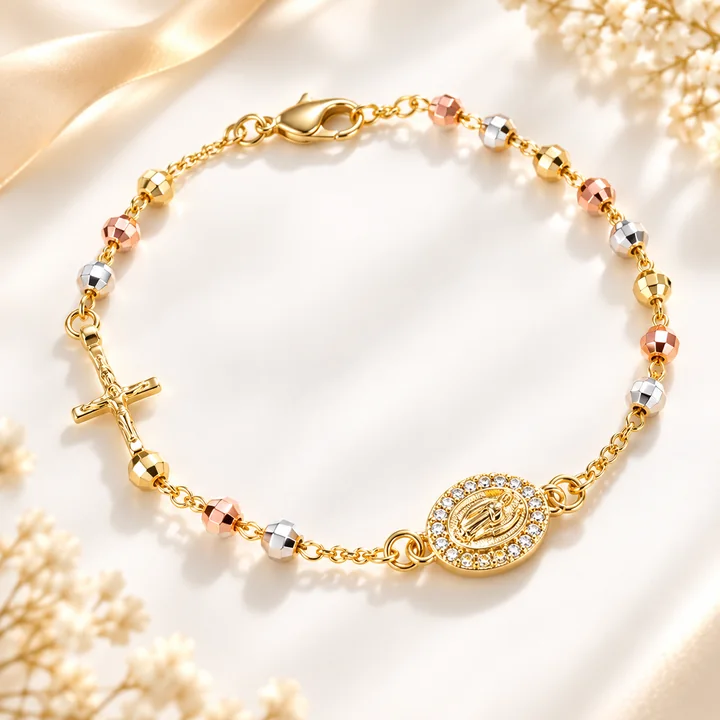
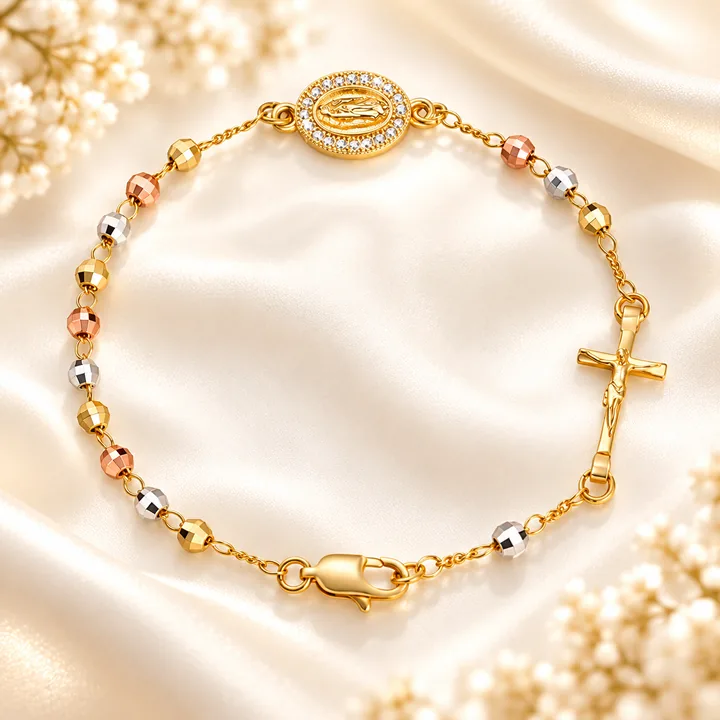
GARELON: sustituir solo las imágenes 1 y 4 por las nuevas del propietario (D45)
- Imagen 1 (infografía «Detalles de la pulsera»): «NUEVA IMAGEN 1.png» byte a byte la de main d697947;
  familia nueva producto-infografia-v4-<ancho>.webp (lossless, tools/garelon_infografia.py); v3 retirada.
- Imagen 4 (pulsera completa): «NUEVA IMAGEN 4.png» (main d697947) sustituye a «imagen 4.png»;
  mismos producto-completa-480/720/1080.webp (LANCZOS + WebP calidad 82).
- Tema: solo esos WebP y el nombre de la familia en snippets/garelon-image.liquid.
- Pruebas: fase AB; S, I, X sin versión fija; alcance de AA fijado a f0a502b.

Claude-Session: https://claude.ai/code/session_01XJUTQLhDdd2vbuf5oismMC

diff --git a/tests/render-harness/suite/tests-AB.js b/tests/render-harness/suite/tests-AB.js
@@ -1,0 +1,93 @@
+// SOLO TEST · Fase AB: sustitución exclusiva de dos imágenes (propietario, 2026-10-14, D45).
+// Imagen 1 (infografía «Detalles de la pulsera») → «NUEVA IMAGEN 1.png» nueva (main d697947), familia producto-infografia-v4.
+// Imagen 4 (pulsera completa, clave «completa») → «NUEVA IMAGEN 4.png» (main d697947), mismos producto-completa-<ancho>.webp.
+// Mismos sitios, mismo orden, mismos tamaños, mismos textos: nada más cambia en el tema.
+const T = require('./tests.js');
+const { ok, get, reset, openPage, THEME } = T;
+const fs = require('fs');
+const { execSync, execFileSync, spawnSync } = require('child_process');
+const P = '/products/pulsera-rosario-virgen-maria';
+const BASE = '8be0746'; // HEAD antes de la ronda AB
+const OWNER_UPLOAD = 'd697947'; // subida del propietario a main (2026-10-14): «NUEVA IMAGEN 1.png» y «NUEVA IMAGEN 4.png»
+const REPO = fs.existsSync(THEME + '/.git');
+const INF = T.assetBase('infografia');
+const gallery = (html) => (html.match(/<div class="g-gallery"[\s\S]*?<\/ul>/) || [''])[0];
+const buy = (html) => (html.match(/<section\s+id="comprar"[\s\S]*?<\/product-info>/) || [''])[0];
+const slides = (g) => [...g.matchAll(/producto-(\w+)(?:-v\d+)?-\d+\.webp/g)].map(m => m[1]).filter((k, i, a) => a.indexOf(k) === i);
+// Diferencia media (0-255) de cada WebP de «completa» con una fuente reducida (LANCZOS) a su ancho.
+const COMPARE = `
+import sys, json
+from PIL import Image, ImageChops, ImageStat
+out = {}
+for name, src in (('nueva', sys.argv[2]), ('antigua', sys.argv[3])):
+    s = Image.open(src).convert('RGB')
+    for w in (480, 720, 1080):
+        a = Image.open(f'{sys.argv[1]}/assets/producto-completa-{w}.webp')
+        r = s.resize((w, w), Image.LANCZOS)
+        out[f'{name}-{w}'] = {'size': list(a.size), 'mean': sum(ImageStat.Stat(ImageChops.difference(a.convert('RGB'), r)).mean) / 3}
+print(json.dumps(out))`;
+
+module.exports = async function (browser) {
+  await reset();
+  // 1 · Fuentes: byte a byte las del propietario; la antigua «imagen 4.png» retirada; el resto de fuentes intacto
+  if (REPO) {
+    const blob = (rev, f) => spawnSync('git', ['-C', THEME, 'cat-file', 'blob', `${rev}:${f}`], { maxBuffer: 64 * 1024 * 1024 }).stdout;
+    const same = (f) => fs.existsSync(`${THEME}/${f}`) && fs.readFileSync(`${THEME}/${f}`).equals(blob(OWNER_UPLOAD, f));
+    ok('AB1 «NUEVA IMAGEN 1.png» y «NUEVA IMAGEN 4.png» son byte a byte las subidas por el propietario a main (d697947)', same('NUEVA IMAGEN 1.png') && same('NUEVA IMAGEN 4.png'));
+    ok('AB2 la imagen 4 antigua («imagen 4.png») ya no está; «NUEVA IMAGEN 3.png» e «imagen 2.png» sin cambios',
+      !fs.existsSync(`${THEME}/imagen 4.png`) && ['NUEVA IMAGEN 3.png', 'imagen 2.png'].every(f => fs.readFileSync(`${THEME}/${f}`).equals(blob(BASE, f))));
+  }
+
+  // 2 · Assets: «completa» sale de la imagen 4 nueva (no de la antigua); la infografía, de la imagen 1 nueva (familia v4)
+  if (REPO) {
+    const old4 = `${require('os').tmpdir()}/garelon-ab-imagen4.png`;
+    fs.writeFileSync(old4, execFileSync('git', ['-C', THEME, 'show', `${BASE}:imagen 4.png`], { maxBuffer: 64 * 1024 * 1024 }));
+    const c = JSON.parse(execFileSync('python3', ['-c', COMPARE, THEME, `${THEME}/NUEVA IMAGEN 4.png`, old4]).toString());
+    fs.unlinkSync(old4);
+    ok('AB3 producto-completa-{480,720,1080}.webp: cuadradas a su ancho y reducción de «NUEVA IMAGEN 4.png» (media ≤ 3/255), no de la antigua (> 10/255)',
+      [480, 720, 1080].every(w => c[`nueva-${w}`].size.join() === `${w},${w}` && c[`nueva-${w}`].mean <= 3 && c[`antigua-${w}`].mean > 10), c);
+  }
+  ok('AB4 infografía: familia producto-infografia-v4 (480/720/1080/1254) y nada de la v3', INF === 'producto-infografia-v4' &&
+    JSON.stringify(fs.readdirSync(`${THEME}/assets`).filter(f => /infografia/.test(f)).sort()) === JSON.stringify([480, 720, 1080, 1254].map(w => `${INF}-${w}.webp`).sort()));
+  if (REPO) {
+    const chk = spawnSync('python3', [`${THEME}/tools/garelon_infografia.py`, '--check'], { encoding: 'utf8' });
+    ok('AB5 tools/garelon_infografia.py --check: la v4 es píxel a píxel la imagen 1 nueva (lossless, sin recorte ni ampliación)', chk.status === 0 && /0\.000, máxima 0\/255/.test(chk.stdout), chk.stdout.trim().split('\n').slice(-3));
+  }
+
+  // 3 · Mismos sitios y mismo orden que antes
+  const home = (await get('/')).html; const pdp = (await get(P)).html;
+  const det = (h) => (h.match(/<section[^>]*id="detalles"[\s\S]*?<\/section>/) || [''])[0];
+  ok('AB6 home: galería de compra completa → infografía → principal → oración; la imagen 4 nueva es la 1.ª (eager) y la 1 nueva está en la galería y en «Detalles»',
+    JSON.stringify(slides(gallery(buy(home)))) === JSON.stringify(['completa', 'infografia', 'principal', 'oracion']) && /<img[^>]*producto-completa-[^>]*loading="eager"|loading="eager"[^>]*producto-completa-/.test(gallery(buy(home))) && det(home).includes(`${INF}-1254.webp`), slides(gallery(buy(home))));
+  ok('AB7 ficha: galería completa → principal → infografía → oración; la imagen 4 nueva es la 1.ª (eager) y «Detalles» usa la imagen 1 nueva',
+    JSON.stringify(slides(gallery(pdp))) === JSON.stringify(['completa', 'principal', 'infografia', 'oracion']) && /<img[^>]*producto-completa-[^>]*loading="eager"|loading="eager"[^>]*producto-completa-/.test(gallery(pdp)) && det(pdp).includes(`${INF}-1254.webp`), slides(gallery(pdp)));
+  ok('AB8 ninguna página sirve la familia v3 de la infografía', !/producto-infografia-v3-/.test(home + pdp + (await get('/cart')).html));
+
+  // 4 · Navegador: móvil y escritorio, todas las imágenes cargan, sin peticiones fallidas
+  for (const [u, vp] of [['/', { width: 390, height: 844 }], ['/', { width: 1440, height: 900 }], [P, { width: 390, height: 844 }], [P, { width: 1440, height: 900 }]]) {
+    const { page, errs } = await openPage(browser, u, vp);
+    const res = await page.evaluate(async () => {
+      const imgs = [...document.querySelectorAll('img[src*="producto-completa"], img[src*="producto-infografia"]')];
+      for (const i of imgs) { i.loading = 'eager'; i.scrollIntoView({ block: 'center' }); await i.decode().catch(() => {}); }
+      return { n: imgs.length, broken: imgs.filter(i => !(i.complete && i.naturalWidth > 0)).map(i => i.currentSrc), sw: document.documentElement.scrollWidth, cw: document.documentElement.clientWidth };
+    });
+    ok(`AB9 ${u === '/' ? 'home' : 'ficha'} ${vp.width}px: imágenes 1 y 4 cargadas (ninguna rota), sin scroll horizontal ni peticiones fallidas`,
+      res.n >= 3 && res.broken.length === 0 && res.sw <= res.cw && errs.length === 0, { ...res, errs });
+    await page.close();
+  }
+
+  // 5 · Alcance: solo los WebP de las dos imágenes y el nombre de la familia de la infografía
+  if (REPO) {
+    const changed = execSync(`git -C ${THEME} diff --name-only ${BASE} -- assets config layout locales sections snippets templates`).toString().trim().split('\n').filter(Boolean)
+      .concat(execSync(`git -C ${THEME} ls-files --others --exclude-standard -- assets config layout locales sections snippets templates`).toString().trim().split('\n').filter(Boolean));
+    ok('AB10 alcance: solo producto-completa-*.webp, producto-infografia-v3/v4-*.webp y snippets/garelon-image.liquid (sin CSS, plantillas, secciones, textos ni ajustes)',
+      changed.length === 12 && changed.every(f => /^(assets\/producto-completa-(480|720|1080)\.webp|assets\/producto-infografia-v[34]-(480|720|1080|1254)\.webp|snippets\/garelon-image\.liquid)$/.test(f)), changed);
+    const sn = execSync(`git -C ${THEME} diff -U0 ${BASE} -- snippets/garelon-image.liquid`).toString().split('\n').filter(l => /^[+-][^+-]/.test(l));
+    ok('AB11 garelon-image.liquid: solo cambia v3 → v4 en el nombre de la familia (2 líneas)',
+      sn.length === 4 && sn.filter(l => l[0] === '-').every(l => l.includes('producto-infografia-v3')) && sn.filter(l => l[0] === '-').map(l => l.slice(1).replace(/v3/g, 'v4')).join() === sn.filter(l => l[0] === '+').map(l => l.slice(1)).join(), sn);
+    const src = execSync(`git -C ${THEME} diff --name-only ${BASE} -- '*.png'`).toString().trim().split('\n').filter(Boolean)
+      .concat(execSync(`git -C ${THEME} ls-files --others --exclude-standard -- '*.png'`).toString().trim().split('\n').filter(Boolean)).sort();
+    ok('AB12 fuentes: solo «NUEVA IMAGEN 1.png» (sustituida), «NUEVA IMAGEN 4.png» (nueva) e «imagen 4.png» (retirada)',
+      JSON.stringify(src) === JSON.stringify(['NUEVA IMAGEN 1.png', 'NUEVA IMAGEN 4.png', 'imagen 4.png']), src);
+  }
+};

diff --git a/tests/render-harness/suite/tests-S.js b/tests/render-harness/suite/tests-S.js
@@ -15,7 +15,7 @@ const REPO_ROOT = path.resolve(__dirname, '..', '..', '..');
 const IS_REPO = path.resolve(THEME) === REPO_ROOT;
 const TOOL = path.join(REPO_ROOT, 'tools', 'garelon_infografia.py');
 const SRC = path.join(REPO_ROOT, 'NUEVA IMAGEN 1.png');
-const OWNER_UPLOAD = ['a173b6a', 'IMAGENN 1.png']; // subida del propietario a main (2026-10-06)
+const OWNER_UPLOAD = ['d697947', 'NUEVA IMAGEN 1.png']; // última subida del propietario a main (2026-10-14, D45; antes a173b6a «IMAGENN 1.png»)
[1 lines of base64/hex data omitted]
 const P = '/products/pulsera-rosario-virgen-maria';
 const VPS = [320, 360, 375, 390, 430, 768, 1024, 1440];
@@ -92,18 +92,18 @@ module.exports = async function phaseS(browser) {
 
   // 2 · Familia v3: solo ella en el tema, generada desde la fuente vigente
   const inf = fs.readdirSync(`${THEME}/assets`).filter(f => f.includes('infografia')).sort();
-  ok('S4 assets/: solo producto-infografia-v3-{480,720,1080,1254}.webp; nada de la familia antigua ni de la v2',
-    ASSET === 'producto-infografia-v3' && ASSET === tool.asset && JSON.stringify(inf) === JSON.stringify([480, 720, 1080, 1254].map(w => `${ASSET}-${w}.webp`).sort()), inf);
+  ok(`S4 assets/: solo ${ASSET}-{480,720,1080,1254}.webp (familia vigente; v4 desde D45); nada de las familias antiguas`,
+    /^producto-infografia-v\d+$/.test(ASSET) && ASSET === tool.asset && JSON.stringify(inf) === JSON.stringify([480, 720, 1080, 1254].map(w => `${ASSET}-${w}.webp`).sort()), inf);
   const leftovers = [];
   for (const d of ['config', 'layout', 'locales', 'sections', 'snippets', 'templates']) {
-    for (const f of fs.readdirSync(`${THEME}/${d}`)) if (/producto-infografia-(?:v2\b|\d)/.test(fs.readFileSync(`${THEME}/${d}/${f}`, 'utf8'))) leftovers.push(`${d}/${f}`);
+    for (const f of fs.readdirSync(`${THEME}/${d}`)) if (/producto-infografia-(?:v[23]\b|\d)/.test(fs.readFileSync(`${THEME}/${d}/${f}`, 'utf8'))) leftovers.push(`${d}/${f}`);
   }
   for (const u of ['/', P, '/cart', '/pages/contacto', '/ruta-inexistente-garelon']) {
-    if (/producto-infografia-(?:v2\b|\d)/.test((await get(u)).html)) leftovers.push(u);
+    if (/producto-infografia-(?:v[23]\b|\d)/.test((await get(u)).html)) leftovers.push(u);
   }
-  ok('S5 ninguna referencia activa a producto-infografia-<ancho> ni a producto-infografia-v2-<ancho> (archivos del tema y páginas servidas)', leftovers.length === 0, leftovers);
+  ok('S5 ninguna referencia activa a producto-infografia-<ancho>, -v2-<ancho> ni -v3-<ancho> (archivos del tema y páginas servidas)', leftovers.length === 0, leftovers);
   const chk = spawnSync('python3', [TOOL, '--check', '--theme', THEME, '--source', SRC], { encoding: 'utf8' });
-  ok('S6 tools/garelon_infografia.py --check: los 4 WebP v3 son lossless, sin recorte ni ampliación, píxel a píxel la fuente vigente y sin diferencias concentradas',
+  ok('S6 tools/garelon_infografia.py --check: los 4 WebP de la familia vigente son lossless, sin recorte ni ampliación, píxel a píxel la fuente vigente y sin diferencias concentradas',
     chk.status === 0 && /0\.000, máxima 0\/255/.test(chk.stdout), chk.stdout.trim().split('\n').slice(-6));
 
   // 3 · Navegador: lo que se ve en los 3 sitios y en la imagen ampliada es la fuente vigente, sin nada añadido.

diff --git a/tests/render-harness/suite/tests-AA.js b/tests/render-harness/suite/tests-AA.js
@@ -9,6 +9,7 @@ const STUB = fs.readFileSync(path.join(__dirname, '..', 'fixtures', 'standard-ev
 const { execSync } = require('child_process');
 const P = '/products/pulsera-rosario-virgen-maria';
 const BASE = '67c09df'; // HEAD antes de la ronda AA
+const ROUND_HEAD = 'f0a502b'; // Ronda AB: commit del tema de la ronda AA (alcance fijado a AA, como en T…Z)
 const REPO = fs.existsSync(THEME + '/.git');
 const json = (f) => JSON.parse(fs.readFileSync(`${THEME}/${f}`, 'utf8').replace(/^\s*\/\*[\s\S]*?\*\/\s*/, ''));
 const buy = (html) => (html.match(/<section\s+id="comprar"[\s\S]*?<\/product-info>/) || [''])[0];
@@ -79,15 +80,14 @@ module.exports = async function (browser) {
 
   // 5 · Alcance: solo la plantilla de inicio y el ajuste de la compra
   if (REPO) {
-    const changed = execSync(`git -C ${THEME} diff --name-only ${BASE} -- assets config layout locales sections snippets templates`).toString().trim().split('\n').filter(Boolean)
-      .concat(execSync(`git -C ${THEME} ls-files --others --exclude-standard -- assets config layout locales sections snippets templates`).toString().trim().split('\n').filter(Boolean));
+    const changed = execSync(`git -C ${THEME} diff --name-only ${BASE} ${ROUND_HEAD} -- assets config layout locales sections snippets templates`).toString().trim().split('\n').filter(Boolean);
     ok('AA11 alcance: solo templates/index.json y sections/featured-product.liquid (sin CSS, ficha, packs, opiniones, FAQ, imágenes, locales ni ajustes)',
       changed.length === 2 && changed.every(f => /^(templates\/index\.json|sections\/featured-product\.liquid)$/.test(f)), changed);
     const at = (f) => JSON.parse(execSync(`git -C ${THEME} show ${BASE}:${f}`).toString().replace(/^\s*\/\*[\s\S]*?\*\/\s*/, ''));
     const before = at('templates/index.json'); const now = json('templates/index.json');
     const strip = (t) => { const c = JSON.parse(JSON.stringify(t)); delete c.sections.portada; c.order = c.order.filter(x => x !== 'portada'); delete c.sections.compra.settings.garelon_primary; return c; };
     ok('AA12 index.json: fuera de la portada y del nuevo ajuste no cambia nada (orden, packs, campaña, opiniones, FAQ, imágenes, textos)', JSON.stringify(strip(before)) === JSON.stringify(strip(now)));
-    const sec = execSync(`git -C ${THEME} diff -U0 ${BASE} -- sections/featured-product.liquid`).toString().split('\n').filter(l => /^[+-][^+-]/.test(l));
+    const sec = execSync(`git -C ${THEME} diff -U0 ${BASE} ${ROUND_HEAD} -- sections/featured-product.liquid`).toString().split('\n').filter(l => /^[+-][^+-]/.test(l));
     ok('AA13 featured-product: solo el ajuste «Primera sección de la página», la etiqueta del título (h2 → h1 con el ajuste) y la foto prioritaria',
       sec.every(l => /garelon_primary|title_tag|"type": "checkbox"|"label": "Primera sección|"default": false|"info": "Actívalo|^\+\s*[{}],?$|^\+\s*\{%- liquid|^\+\s*-%\}|^\+\s*(assign|if|endif)\b|^-\s*<\/?h2|garelon-gallery/.test(l)) && sec.filter(l => /^-/.test(l)).length === 3, sec);
   }

diff --git a/tests/render-harness/suite/tests-X.js b/tests/render-harness/suite/tests-X.js
@@ -100,10 +100,10 @@ module.exports = async function (browser) {
     ok('X17 galería de la home: completa → infografía → principal → oración (sin `detalle`)', JSON.stringify(slides(gallery(buy(home, '/')))) === JSON.stringify(['completa', 'infografia', 'principal', 'oracion']), slides(gallery(buy(home, '/'))));
     ok('X18 galería de la ficha: completa → principal → infografía → oración (sin `detalle`)', JSON.stringify(slides(gallery(pdp))) === JSON.stringify(['completa', 'principal', 'infografia', 'oracion']), slides(gallery(pdp)));
     const det = (pdp.match(/<section[^>]*id="detalles"[\s\S]*?<\/section>/) || [''])[0];
-    ok('X19 ficha · «Detalles de la pulsera» usa la infografía aprobada (como la home)', /producto-infografia-v3-1254\.webp/.test(det) && /alt="Infografía «Detalles de la pulsera»/.test(det));
+    ok('X19 ficha · «Detalles de la pulsera» usa la infografía aprobada (como la home)', det.includes(`${T.assetBase('infografia')}-1254.webp`) && /alt="Infografía «Detalles de la pulsera»/.test(det));
     ok('X20 ninguna página sirve producto-detalle ni su alt', !/producto-detalle|Detalle de la pulsera rosario: medalla/.test(home + pdp));
   }
-  ok('X21 assets: producto-detalle-*.webp retirados; las demás fotos siguen', !fs.readdirSync(`${THEME}/assets`).some(f => /^producto-detalle-/.test(f)) && ['producto-principal-1080.webp', 'producto-completa-1080.webp', 'producto-oracion-1080.webp', 'producto-infografia-v3-1254.webp'].every(f => fs.existsSync(`${THEME}/assets/${f}`)));
+  ok('X21 assets: producto-detalle-*.webp retirados; las demás fotos siguen', !fs.readdirSync(`${THEME}/assets`).some(f => /^producto-detalle-/.test(f)) && ['producto-principal-1080.webp', 'producto-completa-1080.webp', 'producto-oracion-1080.webp', `${T.assetBase('infografia')}-1254.webp`].every(f => fs.existsSync(`${THEME}/assets/${f}`)));
   ok('X22 el selector de imagen de las secciones ya no ofrece `detalle`', ['sections/garelon-details.liquid', 'sections/garelon-hero.liquid', 'sections/garelon-image-text.liquid', 'snippets/garelon-image.liquid', 'snippets/garelon-gallery.liquid'].every(f => !/"value": "detalle"|when 'detalle'/.test(fs.readFileSync(`${THEME}/${f}`, 'utf8'))));
 
   // 5 · Sin regresiones: navegador, carrito y móvil

diff --git a/tests/render-harness/suite/tests.js b/tests/render-harness/suite/tests.js
@@ -5,7 +5,7 @@ const fs = require('fs'); const path = require('path');
 const THEME = path.resolve(process.env.THEME || path.join(__dirname, '..', '..', '..'));
 const B = 'http://localhost:' + (process.env.PORT || 8810);
 // Tras la Z, las rondas siguen con AA, AB… (ronda AA, D44).
-const PHASES = [...'ABCDEFGHIJKLMNOPQRSTUVWXYZ', 'AA']; const PH = PHASES.indexOf(process.env.PHASE || PHASES[PHASES.length - 1]);
+const PHASES = [...'ABCDEFGHIJKLMNOPQRSTUVWXYZ', 'AA', 'AB']; const PH = PHASES.indexOf(process.env.PHASE || PHASES[PHASES.length - 1]);
 const at = (p) => PHASES.indexOf(p) <= PH;
 const results = []; const ok = (n, c, i) => results.push([c ? 'PASS' : 'FAIL', n, i === undefined ? '' : JSON.stringify(i).slice(0, 300)]);
 const setState = (q) => fetch(`${B}/__state?${q}`).then(r => r.json());
@@ -37,7 +37,7 @@ async function launchChromium() {
   }
 }
 // Nombre base de los WebP de una clave: producto-<clave>, salvo una familia versionada en garelon-image
-// (infografia → producto-infografia-v3 desde la ronda S, D36; v2 en la ronda R, D35).
+// (infografia → producto-infografia-v4 desde la ronda AB, D45; v3 en las rondas S…AA, D36; v2 en la ronda R, D35).
 function assetBase(key) {
   const snip = fs.readFileSync(path.join(THEME, 'snippets', 'garelon-image.liquid'), 'utf8');
   const m = snip.match(new RegExp(`if key == '${key}'\\s*assign asset = '([\\w-]+)'`));

diff --git a/tests/render-harness/suite/tests-I.js b/tests/render-harness/suite/tests-I.js
@@ -39,7 +39,7 @@ print(';'.join(f.split('/')[-1]+'='+'x'.join(map(str,Image.open(f).size)) for f 
   ok('I2 assets cuadrados al ancho de su nombre (sin recortes ni deformación)', dims.split(';').every(p => { const [n, d] = p.split('='); const w = n.match(/-(\d+)\.webp/)[1]; return d === `${w}x${w}`; }), dims);
   const REPO = fs.existsSync(`${THEME}/.git`); // I3, I25-I28: solo en el repositorio (el ZIP no lleva PNG, .md ni git)
   // Ronda P: «NUEVA IMAGEN 1.png» (flechas corregidas por el propietario) sustituye a «Imagen 1.png» como fuente de `infografia`.
-  if (REPO) ok('I3 originales conservados como fuente («NUEVA IMAGEN 1.png» e «imagen 4.png»)', fs.existsSync(`${THEME}/NUEVA IMAGEN 1.png`) && fs.existsSync(`${THEME}/imagen 4.png`));
+  if (REPO) ok('I3 originales conservados como fuente («NUEVA IMAGEN 1.png» y, desde D45, «NUEVA IMAGEN 4.png»)', fs.existsSync(`${THEME}/NUEVA IMAGEN 1.png`) && fs.existsSync(`${THEME}/NUEVA IMAGEN 4.png`));
   const snip = fs.readFileSync(`${THEME}/snippets/garelon-image.liquid`, 'utf8');
   ok('I4 claves en el sistema GARELON existente (garelon-image), sin sistema paralelo', /when 'completa'\s*assign widths = '480,720,1080'/.test(snip) && /when 'infografia'\s*assign widths = '480,720,1080,1254'/.test(snip) && fs.readdirSync(`${THEME}/snippets`).filter(f => /^garelon-.*(gallery|galeria)/.test(f)).length === 1);
 

diff --git a/tools/garelon_infografia.py b/tools/garelon_infografia.py
@@ -3,22 +3,22 @@
 
 La ÚNICA fuente autorizada de la clave `infografia` es «NUEVA IMAGEN 1.png» (raíz del repo,
 subida y aprobada por el propietario). Es inmutable: esta herramienta solo la lee, nunca la
-reescribe. Su versión vigente es la que fija SOURCE_SHA256 (snapshot aprobado actual, D36: sin las
-líneas indicadoras, que el propietario quitó a propósito). El único proceso permitido es:
+reescribe. Su versión vigente es la que fija SOURCE_SHA256 (snapshot aprobado actual, D45: la imagen 1 nueva
+que el propietario subió a main el 2026-10-14). El único proceso permitido es:
 
     NUEVA IMAGEN 1.png → reducción proporcional (LANCZOS, solo si el ancho es menor) → WebP lossless
 
 Sin IA, sin recorte, sin reencuadre, sin filtros y sin ampliar. Los anchos salen del snippet
 `snippets/garelon-image.liquid` (when 'infografia'), no de esta herramienta.
 
-Familia versionada (D35, D36): assets/producto-infografia-v3-<ancho>.webp. Cada versión de la fuente
+Familia versionada (D35, D36, D45): assets/producto-infografia-v4-<ancho>.webp. Cada versión de la fuente
 tiene su propia familia, con un nombre (y una URL) que no se repite. Las familias anteriores
-(producto-infografia-<ancho>.webp y producto-infografia-v2-<ancho>.webp) están retiradas: ni sus
+(producto-infografia-<ancho>.webp, -v2- y -v3-) están retiradas: ni sus
 archivos ni sus referencias pueden volver al tema, y el contenido de sus versiones se reconoce por su
 SHA-256 (RETIRED_SHA256). Las versiones anteriores de la fuente, también (RETIRED_SOURCE_SHA256).
 
 Uso:
-  python3 tools/garelon_infografia.py --build           genera assets/producto-infografia-v3-<ancho>.webp
+  python3 tools/garelon_infografia.py --build           genera assets/producto-infografia-v4-<ancho>.webp
   python3 tools/garelon_infografia.py                   comprueba el repositorio (lo mismo que --check)
   python3 tools/garelon_infografia.py --check --theme CARPETA [--source PNG]
                                                         comprueba otra copia del tema (p. ej. el ZIP
@@ -44,18 +44,19 @@ HERE = os.path.dirname(os.path.abspath(__file__))
 ROOT = os.path.dirname(HERE)
 KEY = 'infografia'
 SOURCE = 'NUEVA IMAGEN 1.png'
-# Snapshot aprobado actual (D36, 2026-10-06): la versión sin líneas indicadoras que el propietario subió a main
-# (a173b6a, con el nombre «IMAGENN 1.png»), copiada byte a byte como «NUEVA IMAGEN 1.png».
[1 lines of base64/hex data omitted]
+# Snapshot aprobado actual (D45, 2026-10-14): la imagen 1 nueva que el propietario subió a main (d697947, con el
+# nombre «NUEVA IMAGEN 1.png»), copiada byte a byte.
[1 lines of base64/hex data omitted]
 # Versiones anteriores de «NUEVA IMAGEN 1.png»: retiradas, nunca pueden volver a ser fuente.
 RETIRED_SOURCE_SHA256 = {
[2 lines of base64/hex data omitted]
 }
 SOURCE_SIZE = (1254, 1254)
 OLD_SOURCES = ['Imagen 1.png']  # retiradas: nunca pueden volver a ser fuente
-VERSION = 'v3'
-ASSET = 'producto-%s-%s' % (KEY, VERSION)  # familia versionada (D35, D36): nombre nuevo, sin caché ni referencias antiguas
-# Familias anteriores, retiradas (producto-infografia-<ancho> y producto-infografia-v2-<ancho>). Sus versiones
+VERSION = 'v4'
+ASSET = 'producto-%s-%s' % (KEY, VERSION)  # familia versionada (D35, D36, D45): nombre nuevo, sin caché ni referencias antiguas
+# Familias anteriores, retiradas (producto-infografia-<ancho>, -v2-<ancho> y -v3-<ancho>). Sus versiones
 # (solo el SHA-256; los archivos no se recuperan) no pueden volver al tema con ningún nombre.
 OLD_FAMILY = re.compile(r'producto-%s-(?!%s\b)' % (KEY, VERSION))
 RETIRED_SHA256 = {
@@ -71,6 +72,10 @@ RETIRED_SHA256 = {
[7 lines of base64/hex data omitted]
 }
 ENCODE = dict(lossless=True, quality=100, method=6)  # lossless: sin submuestreo de color en líneas y textos
 

diff --git a/tools/test_garelon_infografia.py b/tools/test_garelon_infografia.py
@@ -26,7 +26,7 @@ SOURCE = 'NUEVA IMAGEN 1.png'
 
 
 def asset(t, w):
-    return f'{t}/theme/assets/producto-infografia-v3-{w}.webp'
+    return f'{t}/theme/assets/producto-infografia-v4-{w}.webp'
 
 
 def resave(t, w, fn, **kw):
@@ -117,7 +117,7 @@ def m_v2_ref(t):
 
 
 def m_snippet_v2(t):
-    edit_snippet(t, "assign asset = 'producto-infografia-v3'", "assign asset = 'producto-infografia-v2'")
+    edit_snippet(t, "assign asset = 'producto-infografia-v4'", "assign asset = 'producto-infografia-v2'")
 
 
 def m_retired_source(t):
@@ -127,7 +127,7 @@ def m_retired_source(t):
 
 
 def m_unversioned(t):
-    edit_snippet(t, "    assign asset = 'producto-infografia-v3'\n", '')
+    edit_snippet(t, "    assign asset = 'producto-infografia-v4'\n", '')
 
 
 def m_editor_override(t):

diff --git a/tools/build_zip.py b/tools/build_zip.py
@@ -2,7 +2,7 @@
 """GARELON · genera el ZIP del tema SOLO si pasa la validación de instalabilidad.
 
 1. Ejecuta tools/garelon_check.py sobre el repositorio y tools/garelon_infografia.py (la infografía
-   es solo la familia producto-infografia-v3-*, que sale de «NUEVA IMAGEN 1.png» en WebP lossless,
+   es solo la familia producto-infografia-v4-*, que sale de «NUEVA IMAGEN 1.png» en WebP lossless,
    sin recorte; ni las familias retiradas ni sus versiones antiguas). Si algo falla, no hay ZIP.
 2. Empaqueta únicamente assets/ config/ layout/ locales/ sections/ snippets/ templates/
    en la raíz del ZIP (sin carpeta contenedora, sin ocultos, sin .md, sin docs ni tools).

diff --git a/tools/garelon_check.py b/tools/garelon_check.py
@@ -795,7 +795,7 @@ def check_image_keys(theme):
     keys = {}
     for key, widths in re.findall(r"when '([\w-]+)'\s*assign widths = '([\d,]+)'", src):
         keys[key] = widths.split(',')
-        # Familia versionada de una clave (p. ej. infografia → producto-infografia-v3, D35-D36); si no, producto-<clave>.
+        # Familia versionada de una clave (p. ej. infografia → producto-infografia-v4, D35-D36, D45); si no, producto-<clave>.
         m = re.search(r"if key == '%s'\s*assign asset = '([\w-]+)'" % re.escape(key), src)
         base = m.group(1) if m else f'producto-{key}'
         for w in keys[key]:
